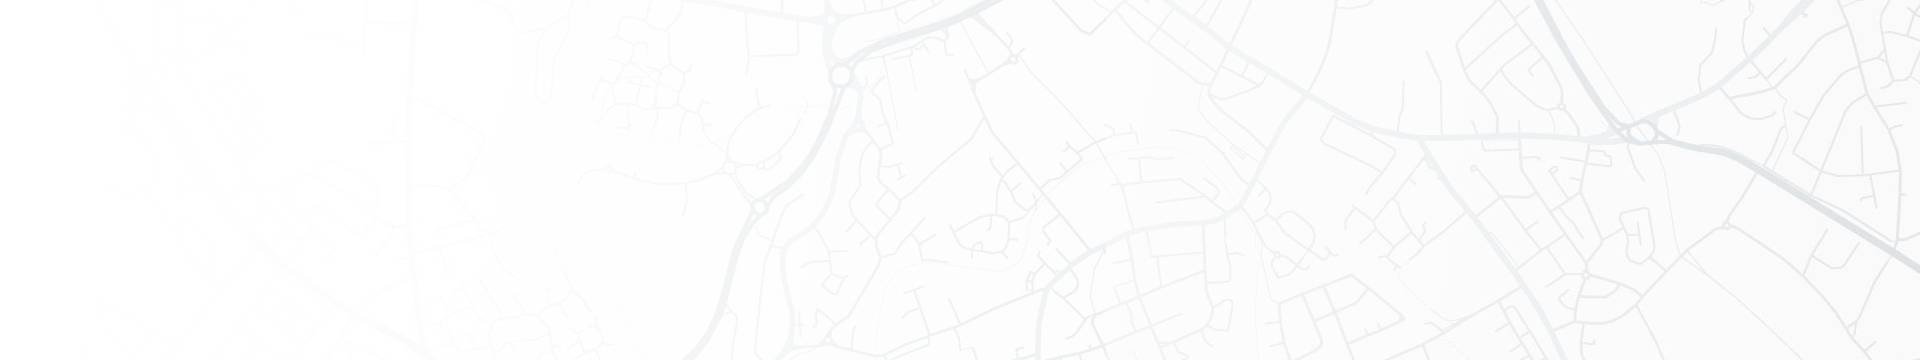
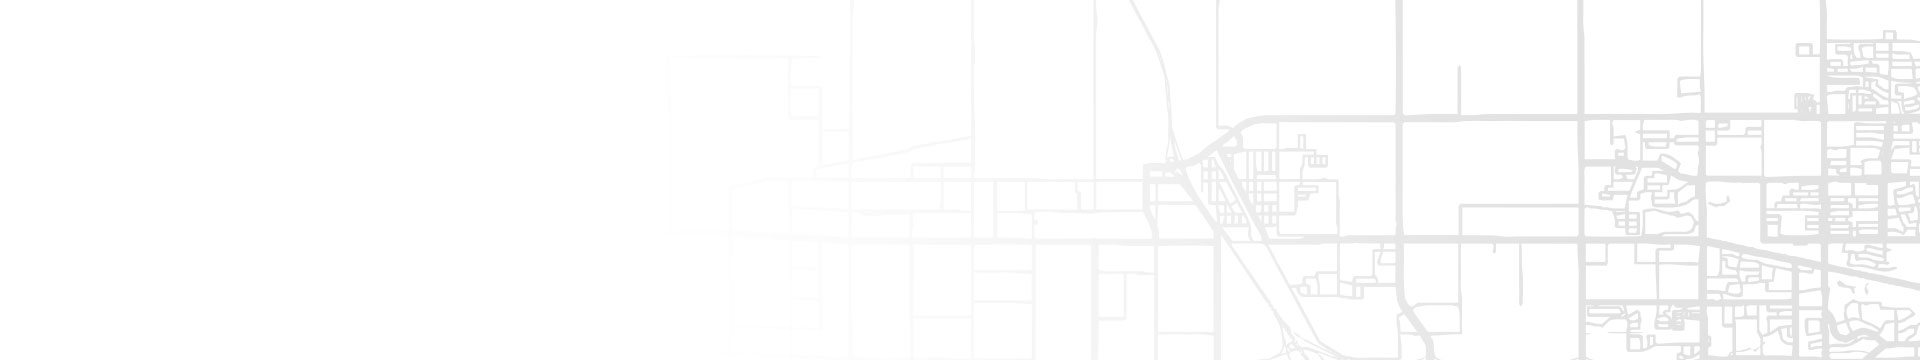
images updates pending

Changed region(s): [[0.75, 0.0917, 1.0, 1.0], [0.8125, 0.1222, 0.8438, 0.1833]]

diff --git a/frontend/src/components/footer/footer.scss b/frontend/src/components/footer/footer.scss
@@ -1,9 +1,10 @@
 
 .site-footer{
     background-image: url("../../../public/images/footer-BG.jpg");
-    background-size: contain;
+    background-size: cover;
     background-repeat: no-repeat;
     padding: 60px 0;
+    background-position: right;
   .fotr-container{
     max-width:1800px;
     margin: 0 auto;
